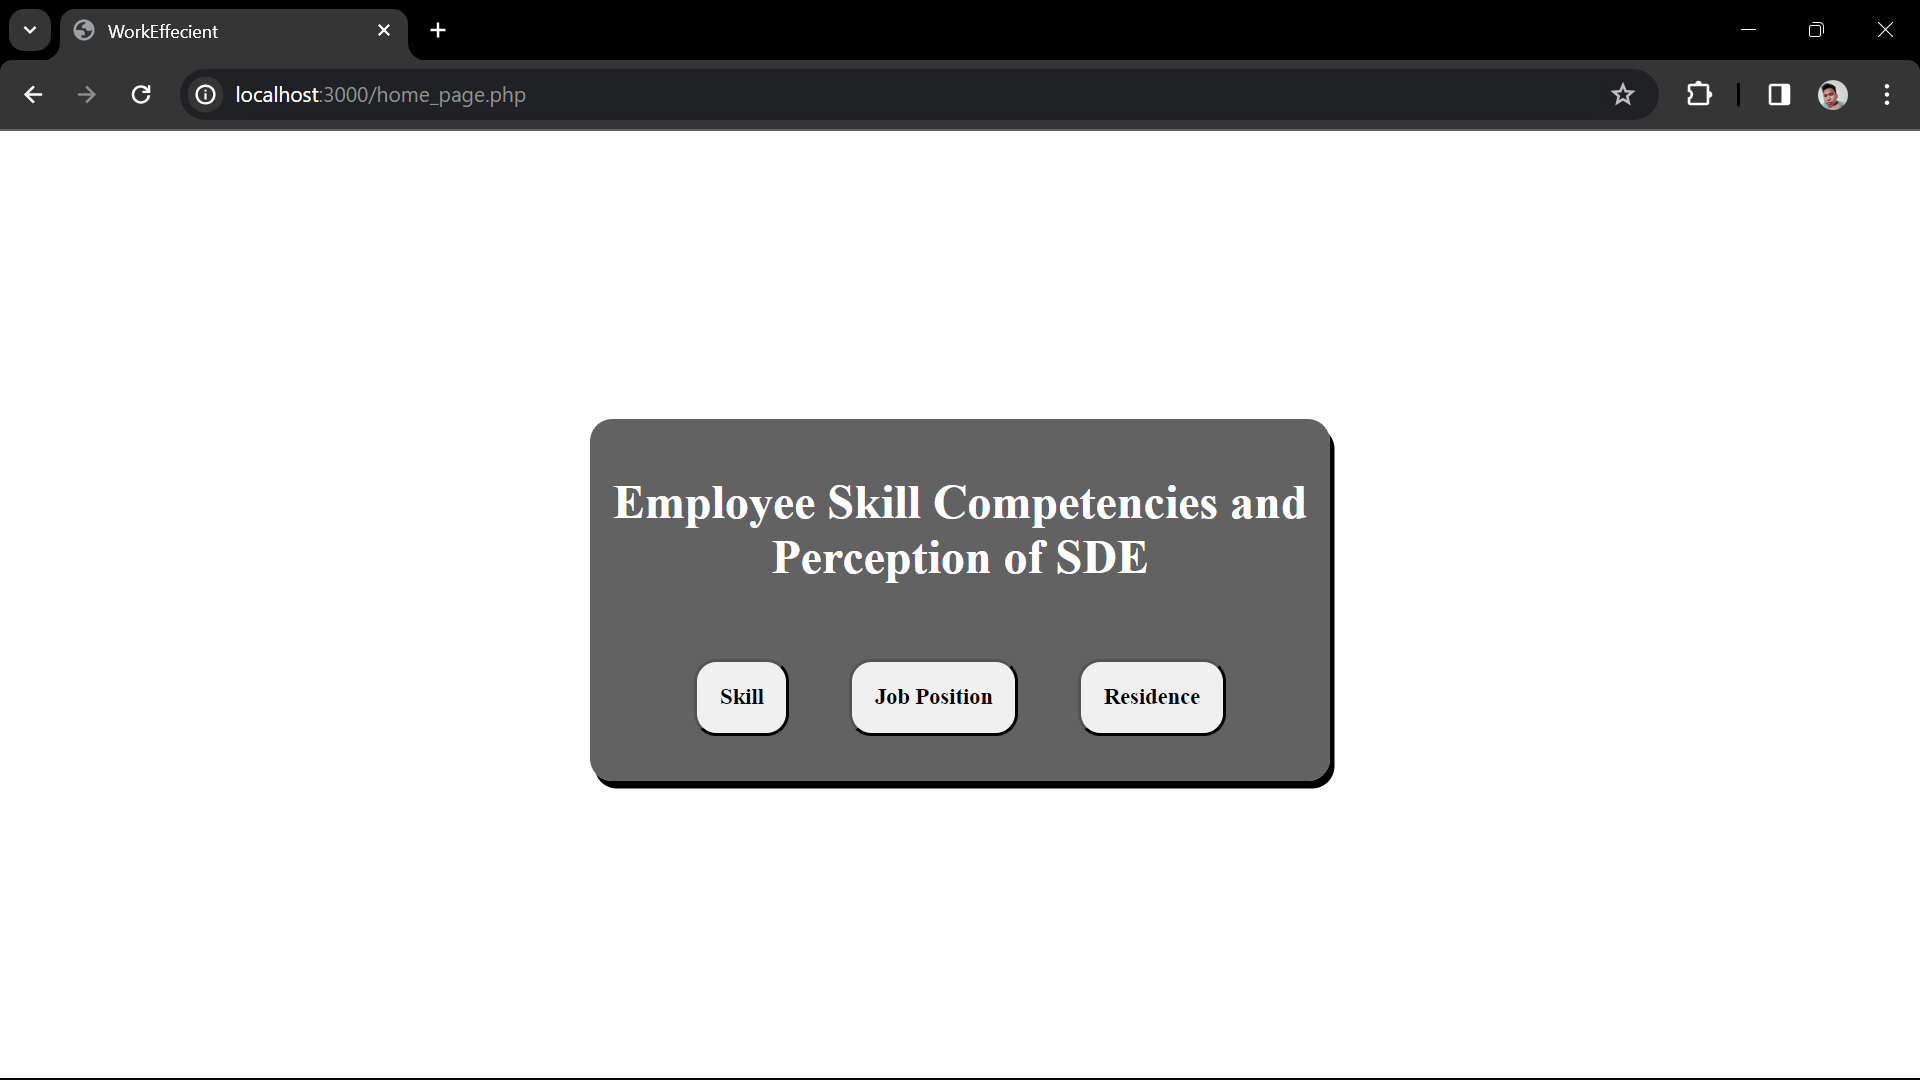
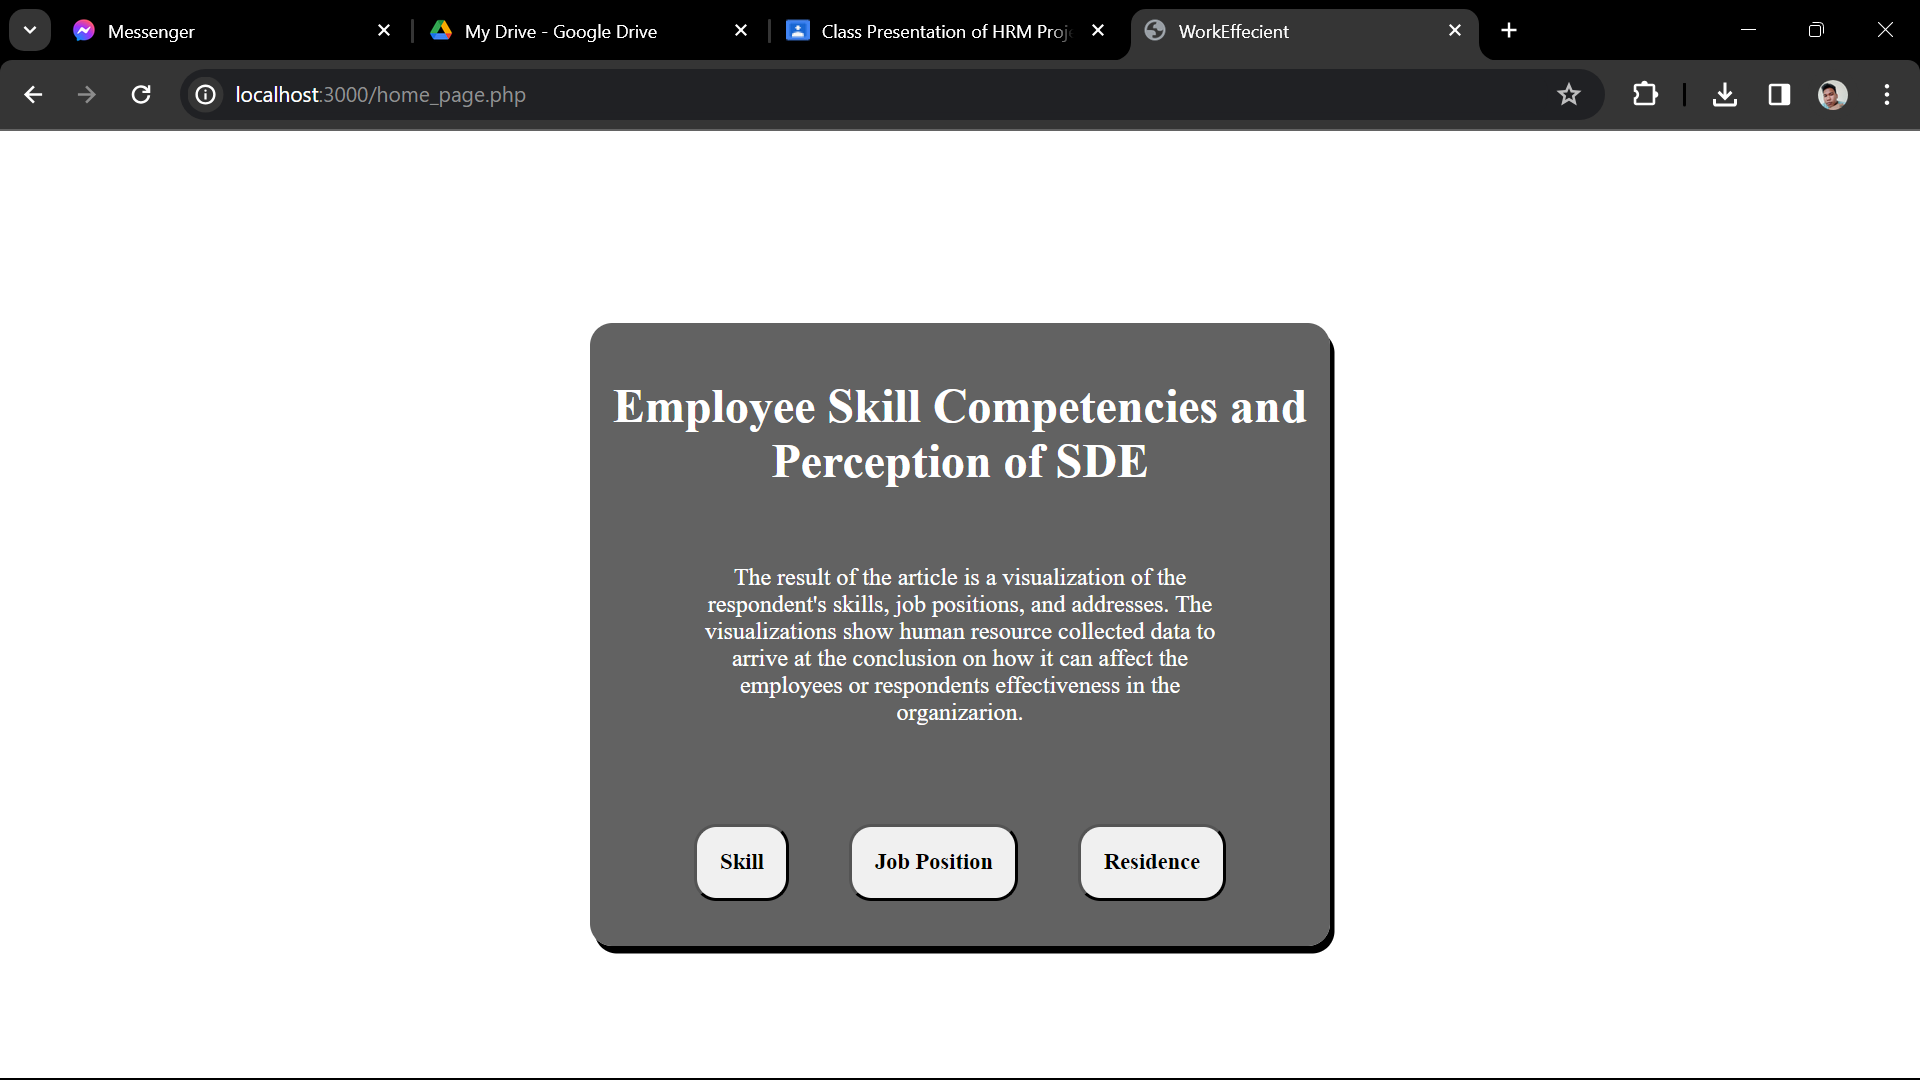
added description

diff --git a/style.css b/style.css
@@ -21,7 +21,7 @@ body {
     height: fit-content;
     display: grid;
     place-items: center;
-    margin: 13% auto 0;
+    margin: 10% auto 0;
     padding: 15px;
 }
 .container h1{

diff --git a/home_page.php b/home_page.php
@@ -9,7 +9,8 @@
 <body>
     <div class="container">
         <h1>Employee Skill Competencies and <br>Perception of SDE</h1>
-        <p>The result of the article is a visualization of the respondent's skills, knowledge, and competencies. It also shows the job positions and addresses of the respondents.</p>
+        <!-- <p>The result of the article is a visualization of the respondent's skills, knowledge, and competencies. It also shows the job positions and addresses of the respondents.</p> -->
+        <p>The result of the article is a visualization of the respondent's skills, job positions, and addresses. The visualizations show human resource collected data to arrive at the conclusion on how it can affect the employees or respondents effectiveness in the organizarion.</p>
             <div class="nav">
                 <a href="skills.php"><button>Skill</button></a>
                 <a href="job_position.php"><button>Job Position</button></a>
